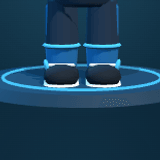
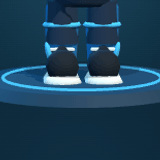
shoes

diff --git a/apps/web/src/game/characters/SharedSkinnedStudent.ts b/apps/web/src/game/characters/SharedSkinnedStudent.ts
@@ -158,12 +158,12 @@ const roundedPad = (radius = 0.5, widthSegments = 12, heightSegments = 8) =>
   new THREE.SphereGeometry(radius, widthSegments, heightSegments);
 
 const FOOTWEAR_PROMINENCE_SCALE: Record<PlayerFootwearId, [number, number, number]> = {
-  runners: [1.36, 1.2, 1.42],
-  army_boots: [1.32, 1.2, 1.36],
-  skate_shoes: [1.4, 1.18, 1.46],
-  basketball_shoes: [1.38, 1.22, 1.42],
-  sandals: [1.4, 1.16, 1.44],
-  barefoot: [1.44, 1.18, 1.48]
+  runners: [1.28, 1.45, 1.02],
+  army_boots: [1.28, 1.3, 1.02],
+  skate_shoes: [1.32, 1.48, 1.04],
+  basketball_shoes: [1.3, 1.42, 1.04],
+  sandals: [1.3, 1.46, 1.02],
+  barefoot: [1.3, 1.42, 1.02]
 };
 
 const buildFootwearPieces = (footwearId: PlayerFootwearId) => {
@@ -196,57 +196,63 @@ const buildFootwearPieces = (footwearId: PlayerFootwearId) => {
 
   if (footwearId === "runners") {
     forEachFoot((bone, x, yaw) => {
-      add(capsule(0.108, 0.235, 10), bone, BODY_MATERIALS.armor, [x, 0.02, -0.15], [1.08, 1, 0.33], [Math.PI / 2, 0, yaw]);
-      add(capsule(0.098, 0.205, 10), bone, BODY_MATERIALS.dark, [x, 0.08, -0.135], [1.02, 1, 0.72], [Math.PI / 2, 0, yaw]);
-      add(capsule(0.055, 0.135, 8), bone, BODY_MATERIALS.uniform, [x, 0.105, -0.205], [1.12, 1, 0.42], [Math.PI / 2, 0, yaw]);
-      add(roundedPad(), bone, BODY_MATERIALS.accent, [x, 0.105, -0.278], [0.085, 0.035, 0.055], [0, 0, yaw]);
-      add(new THREE.TorusGeometry(0.098, 0.016, 5, 12), bone, BODY_MATERIALS.accent, [x, 0.13, -0.01], [1, 1, 0.84], [Math.PI / 2, 0, 0]);
+      add(capsule(0.108, 0.235, 10), bone, BODY_MATERIALS.armor, [x, 0.02, -0.15], [1.08, 1, 0.48], [Math.PI / 2, 0, yaw]);
+      add(capsule(0.098, 0.205, 10), bone, BODY_MATERIALS.dark, [x, 0.095, -0.135], [1.02, 1, 0.96], [Math.PI / 2, 0, yaw]);
+      add(roundedPad(), bone, BODY_MATERIALS.dark, [x, 0.15, -0.105], [0.105, 0.1, 0.16], [0, 0, yaw]);
+      add(capsule(0.055, 0.135, 8), bone, BODY_MATERIALS.uniform, [x, 0.15, -0.205], [1.12, 1, 0.6], [Math.PI / 2, 0, yaw]);
+      add(roundedPad(), bone, BODY_MATERIALS.accent, [x, 0.13, -0.278], [0.09, 0.055, 0.065], [0, 0, yaw]);
+      add(new THREE.TorusGeometry(0.098, 0.018, 5, 12), bone, BODY_MATERIALS.accent, [x, 0.19, -0.01], [1, 1, 0.84], [Math.PI / 2, 0, 0]);
     });
   } else if (footwearId === "army_boots") {
     forEachFoot((bone, x, yaw) => {
-      add(capsule(0.118, 0.245, 10), bone, BODY_MATERIALS.dark, [x, 0.025, -0.145], [1.08, 1, 0.37], [Math.PI / 2, 0, yaw]);
-      add(capsule(0.108, 0.215, 10), bone, BODY_MATERIALS.dark, [x, 0.09, -0.13], [1.04, 1, 0.72], [Math.PI / 2, 0, yaw]);
-      add(taperedLimb(0.115, 0.1, 0.235), bone, BODY_MATERIALS.dark, [x, 0.19, -0.005], [1, 1, 0.88]);
-      add(roundedPad(), bone, BODY_MATERIALS.armor, [x, 0.12, -0.285], [0.09, 0.05, 0.07], [0, 0, yaw]);
-      add(roundedPad(), bone, BODY_MATERIALS.uniform, [x, 0.205, -0.105], [0.073, 0.105, 0.026]);
+      add(capsule(0.118, 0.245, 10), bone, BODY_MATERIALS.dark, [x, 0.035, -0.145], [1.08, 1, 0.54], [Math.PI / 2, 0, yaw]);
+      add(capsule(0.108, 0.215, 10), bone, BODY_MATERIALS.dark, [x, 0.115, -0.13], [1.04, 1, 1], [Math.PI / 2, 0, yaw]);
+      add(roundedPad(), bone, BODY_MATERIALS.dark, [x, 0.19, -0.09], [0.115, 0.13, 0.15], [0, 0, yaw]);
+      add(taperedLimb(0.125, 0.108, 0.25), bone, BODY_MATERIALS.dark, [x, 0.245, -0.005], [1, 1, 0.92]);
+      add(roundedPad(), bone, BODY_MATERIALS.armor, [x, 0.15, -0.285], [0.1, 0.075, 0.08], [0, 0, yaw]);
+      add(roundedPad(), bone, BODY_MATERIALS.uniform, [x, 0.255, -0.105], [0.08, 0.13, 0.032]);
       [-0.035, 0.025, 0.085].forEach((offsetY) => {
-        add(capsule(0.014, 0.105, 6), bone, BODY_MATERIALS.accent, [x, 0.18 + offsetY, -0.135], [1, 1, 0.8], [0, 0, Math.PI / 2]);
+        add(capsule(0.014, 0.105, 6), bone, BODY_MATERIALS.accent, [x, 0.23 + offsetY, -0.135], [1, 1, 0.8], [0, 0, Math.PI / 2]);
       });
-      add(new THREE.TorusGeometry(0.108, 0.018, 5, 12), bone, BODY_MATERIALS.accent, [x, 0.305, -0.005], [1, 1, 0.82], [Math.PI / 2, 0, 0]);
+      add(new THREE.TorusGeometry(0.118, 0.02, 5, 12), bone, BODY_MATERIALS.accent, [x, 0.385, -0.005], [1, 1, 0.82], [Math.PI / 2, 0, 0]);
     });
   } else if (footwearId === "skate_shoes") {
     forEachFoot((bone, x, yaw, side) => {
-      add(capsule(0.12, 0.28, 10), bone, BODY_MATERIALS.armor, [x, 0.018, -0.16], [1.16, 1, 0.27], [Math.PI / 2, 0, yaw]);
-      add(capsule(0.108, 0.255, 10), bone, BODY_MATERIALS.dark, [x, 0.066, -0.15], [1.14, 1, 0.57], [Math.PI / 2, 0, yaw]);
-      add(roundedPad(), bone, BODY_MATERIALS.dark, [x, 0.085, -0.315], [0.115, 0.055, 0.075], [0, 0, yaw]);
-      add(capsule(0.025, 0.16, 7), bone, BODY_MATERIALS.uniform, [x + side * 0.11, 0.08, -0.14], [0.65, 1, 0.42], [Math.PI / 2, 0, 0]);
-      add(capsule(0.014, 0.16, 6), bone, BODY_MATERIALS.accent, [x + side * 0.125, 0.08, -0.145], [0.7, 1, 0.45], [Math.PI / 2, 0, 0]);
+      add(capsule(0.12, 0.28, 10), bone, BODY_MATERIALS.armor, [x, 0.032, -0.16], [1.16, 1, 0.5], [Math.PI / 2, 0, yaw]);
+      add(capsule(0.108, 0.255, 10), bone, BODY_MATERIALS.dark, [x, 0.115, -0.15], [1.14, 1, 0.9], [Math.PI / 2, 0, yaw]);
+      add(roundedPad(), bone, BODY_MATERIALS.dark, [x, 0.16, -0.13], [0.115, 0.11, 0.18], [0, 0, yaw]);
+      add(roundedPad(), bone, BODY_MATERIALS.dark, [x, 0.135, -0.315], [0.12, 0.09, 0.085], [0, 0, yaw]);
+      add(capsule(0.025, 0.16, 7), bone, BODY_MATERIALS.uniform, [x + side * 0.11, 0.145, -0.14], [0.72, 1, 0.58], [Math.PI / 2, 0, 0]);
+      add(capsule(0.014, 0.16, 6), bone, BODY_MATERIALS.accent, [x + side * 0.125, 0.15, -0.145], [0.78, 1, 0.6], [Math.PI / 2, 0, 0]);
     });
   } else if (footwearId === "basketball_shoes") {
     forEachFoot((bone, x, yaw, side) => {
-      add(capsule(0.113, 0.26, 10), bone, BODY_MATERIALS.armor, [x, 0.022, -0.15], [1.1, 1, 0.34], [Math.PI / 2, 0, yaw]);
-      add(capsule(0.104, 0.23, 10), bone, BODY_MATERIALS.dark, [x, 0.085, -0.145], [1.05, 1, 0.72], [Math.PI / 2, 0, yaw]);
-      add(taperedLimb(0.107, 0.095, 0.2), bone, BODY_MATERIALS.uniform, [x, 0.18, -0.015], [1, 1, 0.86]);
-      add(roundedPad(), bone, BODY_MATERIALS.uniform, [x, 0.115, -0.285], [0.09, 0.055, 0.07], [0, 0, yaw]);
-      add(roundedPad(), bone, BODY_MATERIALS.accent, [x + side * 0.09, 0.14, -0.13], [0.035, 0.105, 0.075], [0.1, 0, side * -0.28]);
-      add(capsule(0.017, 0.14, 6), bone, BODY_MATERIALS.armor, [x, 0.15, -0.145], [0.72, 1, 0.55], [0, 0, Math.PI / 2]);
-      add(new THREE.TorusGeometry(0.104, 0.02, 5, 12), bone, BODY_MATERIALS.accent, [x, 0.275, -0.01], [1.02, 1, 0.84], [Math.PI / 2, 0, 0]);
+      add(capsule(0.113, 0.26, 10), bone, BODY_MATERIALS.armor, [x, 0.03, -0.15], [1.1, 1, 0.52], [Math.PI / 2, 0, yaw]);
+      add(capsule(0.104, 0.23, 10), bone, BODY_MATERIALS.dark, [x, 0.12, -0.145], [1.05, 1, 0.98], [Math.PI / 2, 0, yaw]);
+      add(roundedPad(), bone, BODY_MATERIALS.dark, [x, 0.18, -0.12], [0.11, 0.12, 0.17], [0, 0, yaw]);
+      add(taperedLimb(0.115, 0.1, 0.22), bone, BODY_MATERIALS.uniform, [x, 0.245, -0.015], [1, 1, 0.9]);
+      add(roundedPad(), bone, BODY_MATERIALS.uniform, [x, 0.16, -0.285], [0.1, 0.085, 0.08], [0, 0, yaw]);
+      add(roundedPad(), bone, BODY_MATERIALS.accent, [x + side * 0.09, 0.2, -0.13], [0.04, 0.13, 0.085], [0.1, 0, side * -0.28]);
+      add(capsule(0.017, 0.14, 6), bone, BODY_MATERIALS.armor, [x, 0.215, -0.145], [0.78, 1, 0.62], [0, 0, Math.PI / 2]);
+      add(new THREE.TorusGeometry(0.11, 0.022, 5, 12), bone, BODY_MATERIALS.accent, [x, 0.36, -0.01], [1.02, 1, 0.84], [Math.PI / 2, 0, 0]);
     });
   } else if (footwearId === "sandals") {
     forEachFoot((bone, x, yaw) => {
-      add(capsule(0.11, 0.24, 10), bone, BODY_MATERIALS.dark, [x, 0.012, -0.15], [1.08, 1, 0.22], [Math.PI / 2, 0, yaw]);
-      add(capsule(0.102, 0.225, 10), bone, BODY_MATERIALS.skin, [x, 0.052, -0.15], [1.02, 1, 0.42], [Math.PI / 2, 0, yaw]);
-      add(capsule(0.034, 0.17, 7), bone, BODY_MATERIALS.uniform, [x, 0.105, -0.205], [1, 1, 0.65], [0, 0, Math.PI / 2]);
-      add(capsule(0.031, 0.17, 7), bone, BODY_MATERIALS.accent, [x, 0.105, -0.095], [1, 1, 0.62], [0, 0, Math.PI / 2]);
-      add(new THREE.TorusGeometry(0.096, 0.02, 5, 12, Math.PI * 1.2), bone, BODY_MATERIALS.uniform, [x, 0.12, -0.015], [1, 1, 0.85], [Math.PI / 2, 0, -Math.PI * 0.6]);
+      add(capsule(0.11, 0.24, 10), bone, BODY_MATERIALS.dark, [x, 0.03, -0.15], [1.08, 1, 0.5], [Math.PI / 2, 0, yaw]);
+      add(capsule(0.102, 0.225, 10), bone, BODY_MATERIALS.skin, [x, 0.105, -0.15], [1.02, 1, 0.76], [Math.PI / 2, 0, yaw]);
+      add(roundedPad(), bone, BODY_MATERIALS.skin, [x, 0.16, -0.1], [0.105, 0.09, 0.17], [0, 0, yaw]);
+      add(capsule(0.038, 0.17, 7), bone, BODY_MATERIALS.uniform, [x, 0.19, -0.205], [1, 1, 0.82], [0, 0, Math.PI / 2]);
+      add(capsule(0.035, 0.17, 7), bone, BODY_MATERIALS.accent, [x, 0.19, -0.095], [1, 1, 0.78], [0, 0, Math.PI / 2]);
+      add(new THREE.TorusGeometry(0.1, 0.025, 5, 12, Math.PI * 1.2), bone, BODY_MATERIALS.uniform, [x, 0.21, -0.015], [1, 1, 0.85], [Math.PI / 2, 0, -Math.PI * 0.6]);
     });
   } else {
     forEachFoot((bone, x, yaw) => {
-      add(capsule(0.102, 0.225, 10), bone, BODY_MATERIALS.skin, [x, 0.035, -0.14], [1.04, 1, 0.4], [Math.PI / 2, 0, yaw]);
-      add(roundedPad(), bone, BODY_MATERIALS.skin, [x, 0.045, -0.275], [0.12, 0.055, 0.095], [0, 0, yaw]);
-      add(joint(0.065), bone, BODY_MATERIALS.skin, [x, 0.07, -0.015], [1.25, 1, 1]);
+      add(capsule(0.102, 0.225, 10), bone, BODY_MATERIALS.skin, [x, 0.055, -0.14], [1.04, 1, 0.78], [Math.PI / 2, 0, yaw]);
+      add(roundedPad(), bone, BODY_MATERIALS.skin, [x, 0.12, -0.1], [0.11, 0.1, 0.18], [0, 0, yaw]);
+      add(roundedPad(), bone, BODY_MATERIALS.skin, [x, 0.09, -0.275], [0.125, 0.09, 0.1], [0, 0, yaw]);
+      add(joint(0.07), bone, BODY_MATERIALS.skin, [x, 0.12, -0.015], [1.3, 1.15, 1.1]);
       [-0.055, 0, 0.055].forEach((toeX, index) => {
-        add(joint(0.04), bone, BODY_MATERIALS.skin, [x + toeX, 0.045, -0.355 + Math.abs(index - 1) * 0.012], [1.05, 0.72, 1.05]);
+        add(joint(0.043), bone, BODY_MATERIALS.skin, [x + toeX, 0.1, -0.345 + Math.abs(index - 1) * 0.012], [1.08, 1.05, 1.1]);
       });
     });
   }
